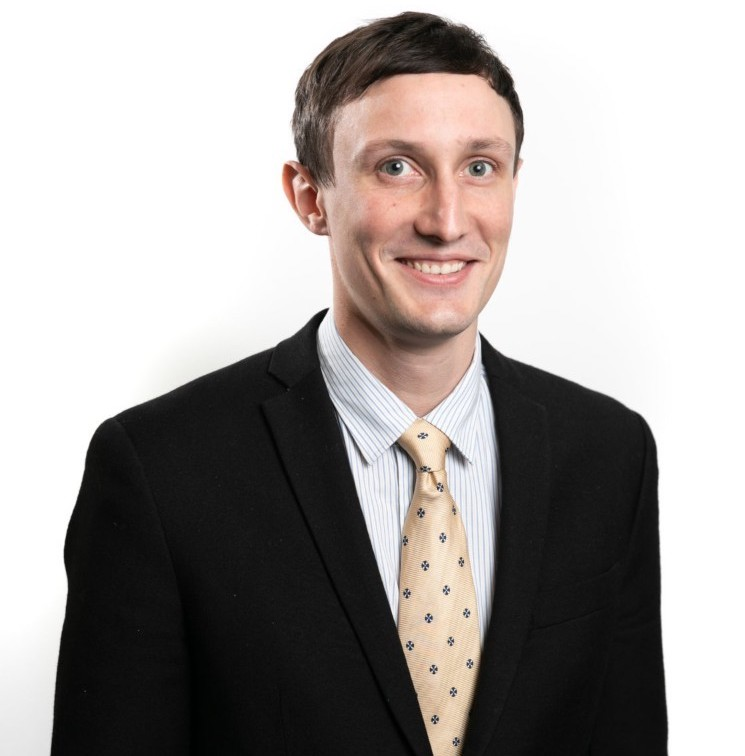
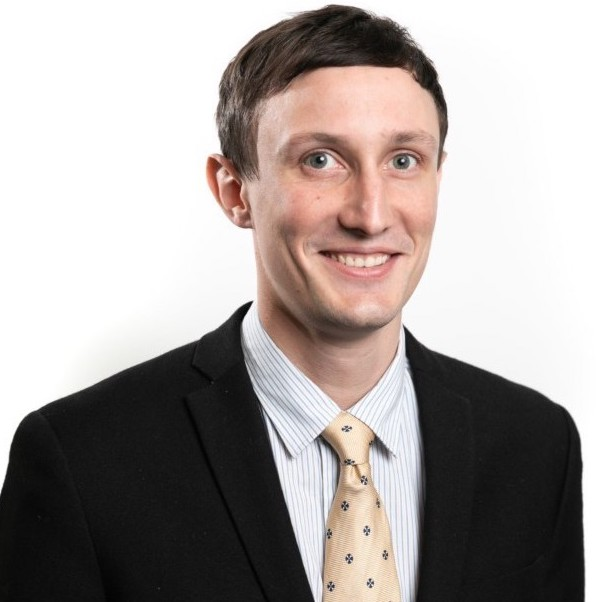
Made image sizing more responsive

diff --git a/index.html b/index.html
@@ -3,8 +3,7 @@
 <html>
 
 <body>
-    <main>
-
+    <!-- <div class="sticky"> -->
         <head>
             <title>Portfolio: Lachlan Greve</title>
             <meta name="viewport" content="width=device-width, initial-scale=1, minimum-scale=1" />
@@ -23,26 +22,23 @@
         </nav>
 
 
+        <main>
         <div class="card">
             <article>
                 <h1>About Me:</h1>
                 <div class="post">
-                    <figure>
                         <img alt="A picture of me." src="./profile.jpeg" />
-                    </figure>
                     <p>Hi my name is Lachlan! I am a current student of the CoderAcademy - Coding, Cloud & Cyber Security Bootcamp Course of 2022. I am a DevOps engineer and IT professional (in-training). This website is intended to demonstrate some of my skills and my skills and abilities. </p>
+                </div>
             </article>
-        </div>
         </div>
 
 
         <div class="card">
-            <h1>About Me:</h1>
             <article>
+            <h1>About Me:</h1>
                 <div class="post">
-                    <figure>
                         <img alt="My two cats." src="./louiecosmo.jpeg" />
-                    </figure>
                     <p>These are my two cats, Louie and Cosmo.</p>
                 </div>
             </article>
@@ -52,8 +48,9 @@
 
     </main>
 
+    <!-- </div> -->
 
-    <footer>
+    <footer class="footer">
         <div class="card"
         <div id="socialMediaFooter">
         <a href="https://www.linkedin.com/in/ljg/"><img src="./fa-li.svg" alt="Email:"></a>
@@ -63,6 +60,7 @@
         </div>
         </div>
     </footer>
+
 
 </body>
 

diff --git a/styles.css b/styles.css
@@ -29,6 +29,9 @@
 }
 
 /* Body Styling */
+html, body {
+    height: 100%;
+}
 
 body {
     text-align: justify;
@@ -38,24 +41,30 @@ body {
     margin-bottom: 0px;
     display: flex;
     flex-direction: column;
-    min-height: 100vh;
     padding: 20px;
     background: #f1f1f1;
 }
 
 
-.post {
-    display: flex;
-    flex-direction: row;
+.footer {
+    margin-top: auto;
 }
 
-.post img {
-    height: 30vh;
+
+.post {
+    display: flex;
+}
+
+.post img{
+    max-width: 40%;
+    flex: 1;
+    align-self:flex-start;
+    padding-right: 3%;
 }
 
 .post p {
-    min-width: 10vw;
     text-align: left;
+    flex: 1;
 }
 
 .card {
@@ -104,8 +113,6 @@ body {
 #socialMediaFooter {
     display: flex;
     justify-content: space-around;
-    margin-top: auto;
-    margin-top: 20px;
     padding: 0px;
     /* This makes a 'sticky' footer at the btm of the pg.*/
     /* overflow: hidden; */
@@ -269,6 +276,13 @@ body {
 
     .post {
         flex-direction: column;
+    }
+
+    .post img {
+        max-width: auto;
+        max-height: 30%;
+        align-self: center;
+
     }
 
     body {
